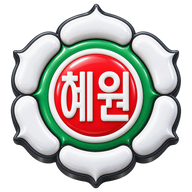
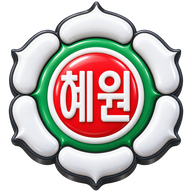
v1.2.8 — 앱 아이콘 로고 최대한 크게(투명 배경, maskable 추가)

Changed region(s): [[0.0312, 0.0, 0.9688, 1.0]]

diff --git a/index.html b/index.html
@@ -228,15 +228,15 @@ table.tt td.today{background:color-mix(in srgb,var(--accent) 9%,var(--card))}
 
 <script>
 /* ══════════════════════════════════════════════════════════
-   혜원이지 | @version 1.2.7
-   수정요약: v1.2.7 표 안 글은 원래 줄바꿈 자리에서만 줄바꿈(자동 꺾임 없음) — 넓으면 좌우로 밀어 봄. / v1.2.6 주간업무 읽기 쉽게 — 줄간격 넓힘·번호/기호 내어쓰기와 단계별 들여쓰기·표를 가로로 밀어 보게 하고 짧은 칸은 한 줄로·표 머리줄/줄무늬. / v1.2.5 새로고침해도 옛 판이 뜨던 것(서비스워커) 수정 — sw.js 머리말 참고. / v1.2.4 학사일정 «1년 전체» 칩 + 묵은 탭(ok:false)이 같은 달로 겹쳐 나오던 것 제거. / v1.2.3 학사일정 — 타일 이름을 «학사일정» 으로, 달 칩으로 다른 달도 본다. / v1.2.2 타일 이모지(📘🍚📅📋🔗)를 선 아이콘으로. / v1.2.1 로그인 뒤 홈 머리글에 로고 · 화면에 보이는 버전 표기를 맞춤(그전엔 1.1.0 으로 남아 있었다). / v1.2.0 로그인 화면 로고와 설치용 앱 아이콘을 «혜원» 꽃 3D 로고(투명 배경)로 · icon-192 추가. / v1.1.0 이름을 «혜원이지» 로. / v1.0.0 첫 판 — 타일 홈 + 시간표·급식·학사일정·주간업무·바로가기
+   혜원이지 | @version 1.2.8
+   수정요약: v1.2.8 앱 아이콘 — 로고를 틀 가득(any 98%·maskable 안전영역 가득) 크게, 배경 투명. / v1.2.7 표 안 글은 원래 줄바꿈 자리에서만 줄바꿈(자동 꺾임 없음) — 넓으면 좌우로 밀어 봄. / v1.2.6 주간업무 읽기 쉽게 — 줄간격 넓힘·번호/기호 내어쓰기와 단계별 들여쓰기·표를 가로로 밀어 보게 하고 짧은 칸은 한 줄로·표 머리줄/줄무늬. / v1.2.5 새로고침해도 옛 판이 뜨던 것(서비스워커) 수정 — sw.js 머리말 참고. / v1.2.4 학사일정 «1년 전체» 칩 + 묵은 탭(ok:false)이 같은 달로 겹쳐 나오던 것 제거. / v1.2.3 학사일정 — 타일 이름을 «학사일정» 으로, 달 칩으로 다른 달도 본다. / v1.2.2 타일 이모지(📘🍚📅📋🔗)를 선 아이콘으로. / v1.2.1 로그인 뒤 홈 머리글에 로고 · 화면에 보이는 버전 표기를 맞춤(그전엔 1.1.0 으로 남아 있었다). / v1.2.0 로그인 화면 로고와 설치용 앱 아이콘을 «혜원» 꽃 3D 로고(투명 배경)로 · icon-192 추가. / v1.1.0 이름을 «혜원이지» 로. / v1.0.0 첫 판 — 타일 홈 + 시간표·급식·학사일정·주간업무·바로가기
 
    ★ 폰은 아무것도 긁지 않는다. «다리»(GAS)가 다 긁어서 정리해 준 것만 받는다.
      폰 브라우저는 남의 사이트를 직접 못 부르기 때문이다(같은 출처 규칙).
    ★ 드롭다운(select)은 쓰지 않는다 — 칩·단추로 고른다.
    ══════════════════════════════════════════════════════════ */
 
-var VERSION = '1.2.7';
+var VERSION = '1.2.8';
 var BRIDGE = 'https://script.google.com/macros/s/'
[1 lines of base64/hex data omitted]
 

diff --git a/sw.js b/sw.js
@@ -1,4 +1,4 @@
-/* 혜원이지 서비스워커 | @version 1.2.7
+/* 혜원이지 서비스워커 | @version 1.2.8
    ★ v1.2.5 — «새로고침해도 옛 판(1.2.2)» 이 나오던 것을 고쳤다. 원인 둘:
      ① 설치할 때 addAll 이 브라우저(HTTP) 캐시를 거쳐서, GitHub Pages 의 10분 캐시 때문에 «새 서비스워커가 옛 index.html 을 담는» 일이 있었다 → cache:'reload' 로 늘 서버에서 받는다.
      ② 화면(index.html)까지 «캐시 먼저» 라 새 판이 있어도 옛 판이 먼저 떴다 → 화면은 «서버 먼저, 안 되면 캐시».
@@ -11,7 +11,7 @@
        ③ controllerchange   — 바뀌면 화면이 스스로 새로고침한다    (index.html)
        ④ visibilitychange   — 앞으로 나올 때마다 새 판을 «찾아본다» (index.html)
      ④ 가 없으면 ①②③ 이 다 있어도 소용없다. 찾아보질 않으니 발견을 못 한다. */
-var CACHE = 'phone-v1.2.7';
+var CACHE = 'phone-v1.2.8';
 var ASSETS = ['./', './index.html', './manifest.webmanifest', './icon-512.png', './icon-192.png'];
 
 self.addEventListener('install', function (e) {
